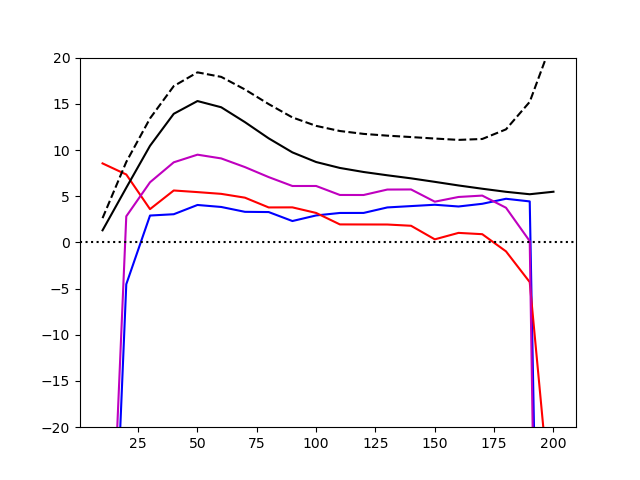
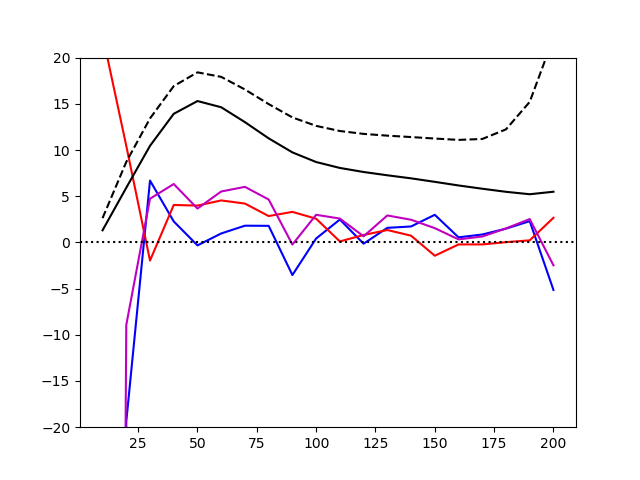
Show the correct fluxes.

diff --git a/show_results.py b/show_results.py
@@ -147,7 +147,7 @@ if False:
     
 if True:
     region = 'wc'
-    rem = remoteX[region]
+    rem = remote0[region]
     lc0 = local0[region]
     lcX = localX[region]
     fig = plt.figure(10);fig.clf()
